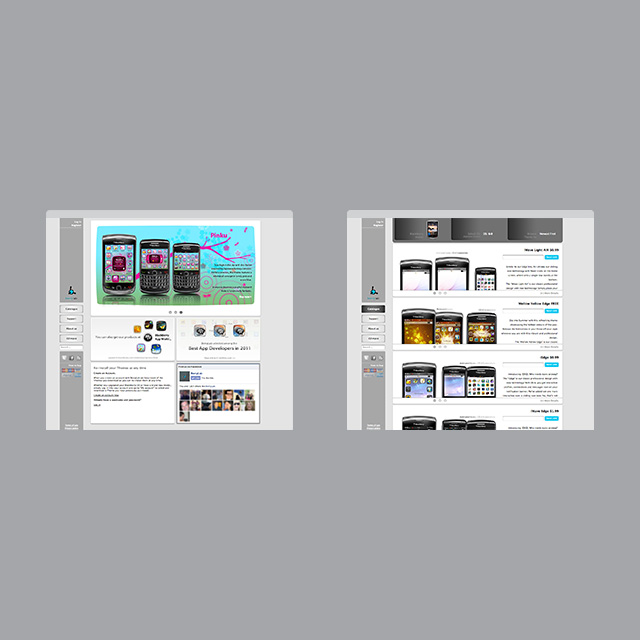
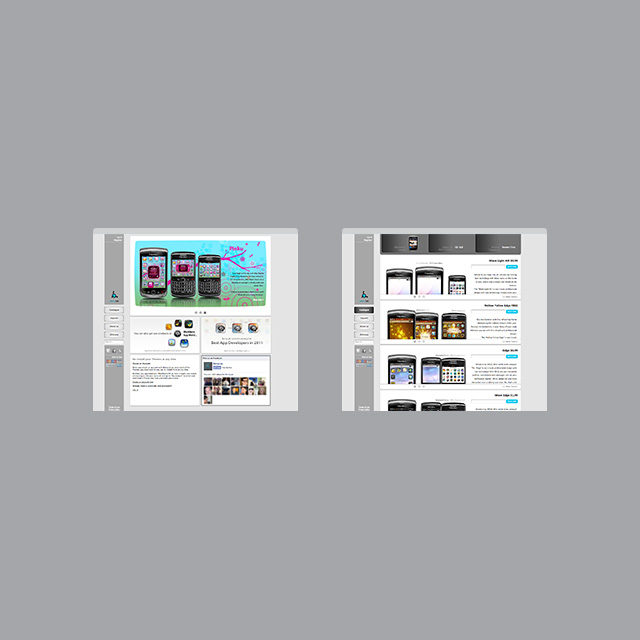
websites added

Changed region(s): [[0.5312, 0.3125, 0.9375, 0.6875], [0.0625, 0.3125, 0.4688, 0.6875]]

diff --git a/templates/websites/index.html b/templates/websites/index.html
@@ -9,16 +9,12 @@
 
 <div class="workContainer">
 	<div class="projectName">
-		<p>App and theme store</p>
+		<p>Old designs</p>
 	</div>
 	<div class="content">
 		<img src="images/work/websites/websites-berrylab-01-frankcastro.com.jpg" alt="Website design, Art direction, and UX design by Frank Castro. www.frankcastro.com">
-		<img src="images/work/websites/websites-berrylab-02-frankcastro.com.jpg" alt="Website design, Art direction, and UX design by Frank Castro. www.frankcastro.com">
-		<img src="images/work/websites/websites-berrylab-03-frankcastro.com.jpg" alt="Website design, Art direction, and UX design by Frank Castro. www.frankcastro.com">
-		<img src="images/work/websites/websites-berrylab-04-frankcastro.com.jpg" alt="Website design, Art direction, and UX design by Frank Castro. www.frankcastro.com">
 		<img src="images/work/websites/websites-blinds-frankcastro.com.jpg" alt="Website design, Art direction, and UX design by Frank Castro. www.frankcastro.com">
 		<img src="images/work/websites/websites-facetograce-frankcastro.com.jpg" alt="Website design, Art direction, and UX design by Frank Castro. www.frankcastro.com">
-		<img src="images/work/websites/websites-various-01-frankcastro.com.jpg" alt="Website design, Art direction, and UX design by Frank Castro. www.frankcastro.com">
 	</div>
 </div>
 
